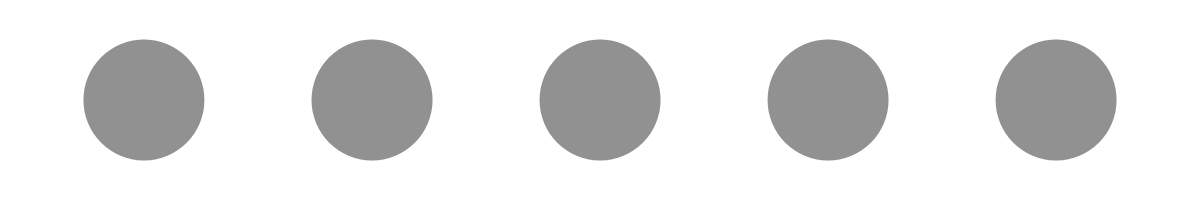
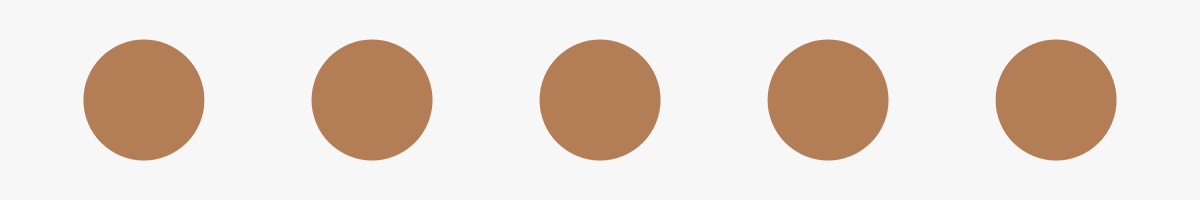
Updates Final 7.5

diff --git a/style.css b/style.css
@@ -158,8 +158,8 @@ body {
 .corner-box {
     position: absolute;
     /* SIZE: increased for better visibility */
-    width: clamp(130px, 28vw, 200px);
-    height: clamp(60px, 10vw, 85px);
+    width: clamp(195px, 28vw, 300px);
+    height: clamp(100px, 10vw, 137px);
     background-color: rgba(255,255,255,0.95);
     color: #a5714f;
     font-family: 'Play', sans-serif;
@@ -292,7 +292,7 @@ body {
 .markers-row {
     display: flex;
     justify-content: center;
-    gap: 2.5rem;                /* increased gap between markers */
+    gap: 3rem;                /* increased gap between markers */
     flex-wrap: wrap;
     width: 100%;
     padding: 0.5rem 0;          /* a bit of breathing room */

diff --git a/script.js b/script.js
@@ -20,7 +20,7 @@ document.addEventListener('DOMContentLoaded', () => {
         const rect = photoContainer.getBoundingClientRect();
         const boxWidth = cornerBoxes[0].offsetWidth;
         const boxHeight = cornerBoxes[0].offsetHeight;
-        const offset = 0.05;        // changed from 0.08 to 0.05 – brings boxes closer to centre
+        const offset = 0.03;        // changed from 0.08 to 0.05 – brings boxes closer to centre
 
         cornerBoxes[0].style.left = (rect.left + rect.width * offset - boxWidth / 2) + 'px';
         cornerBoxes[0].style.top  = (rect.top  + rect.height * offset - boxHeight / 2) + 'px';